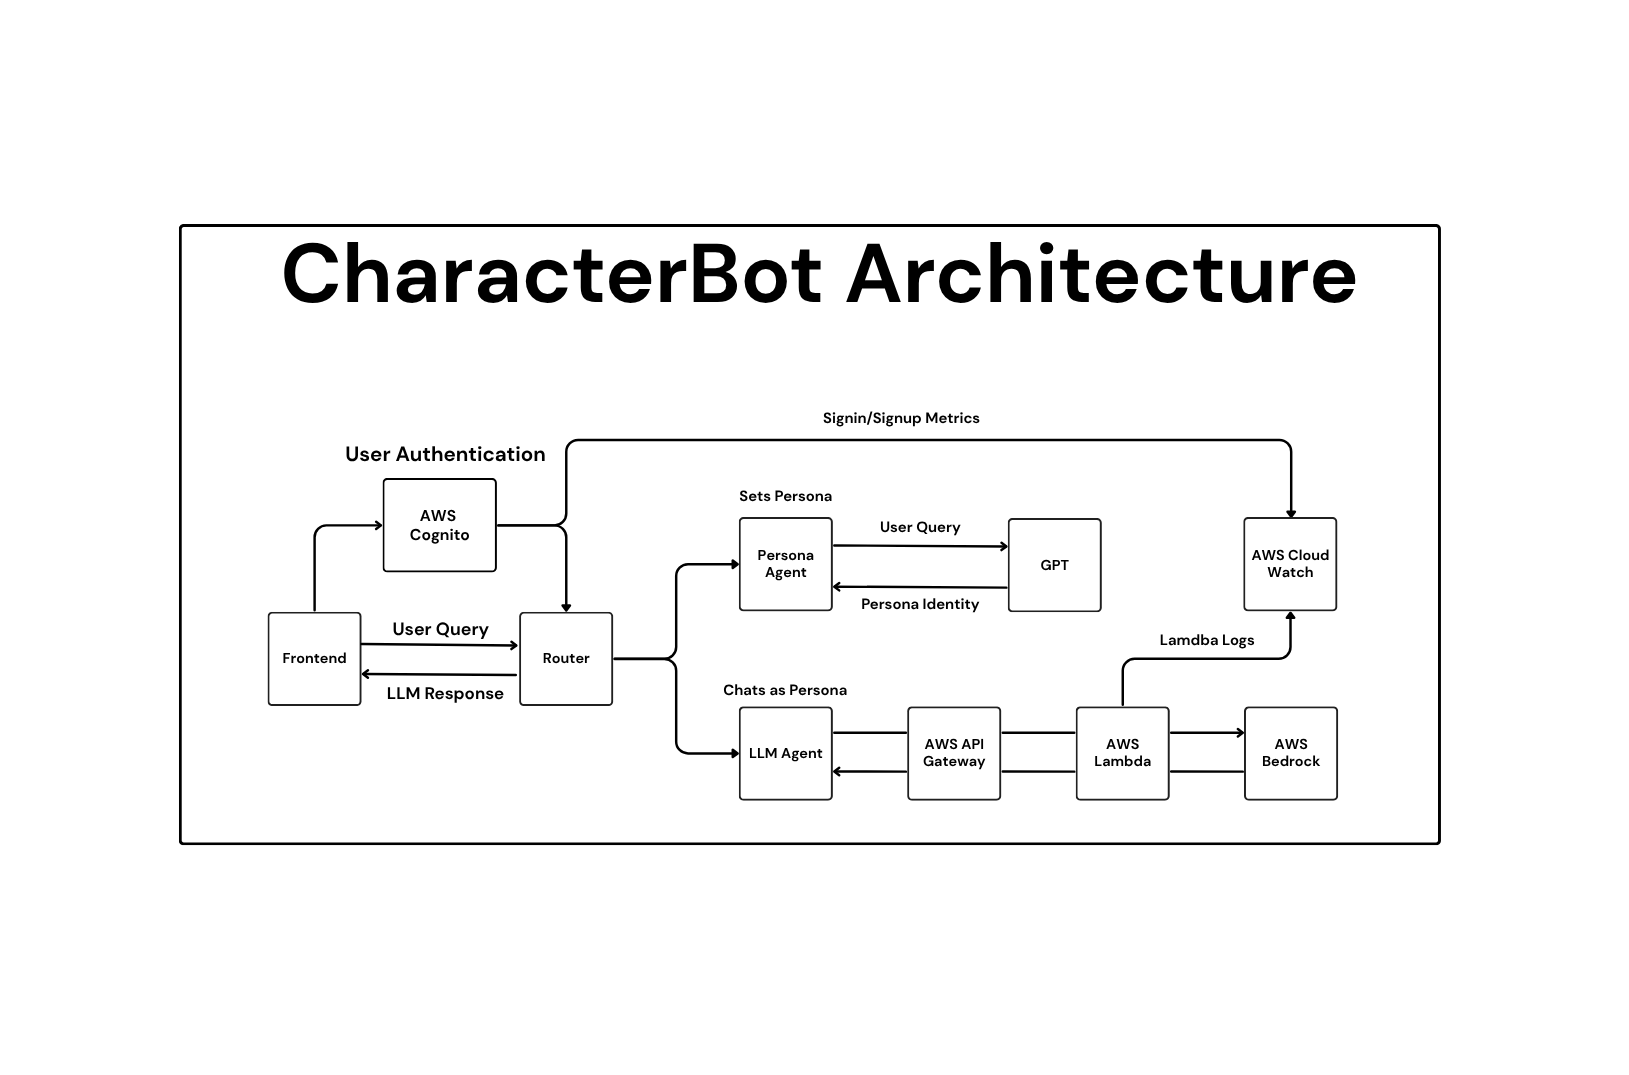
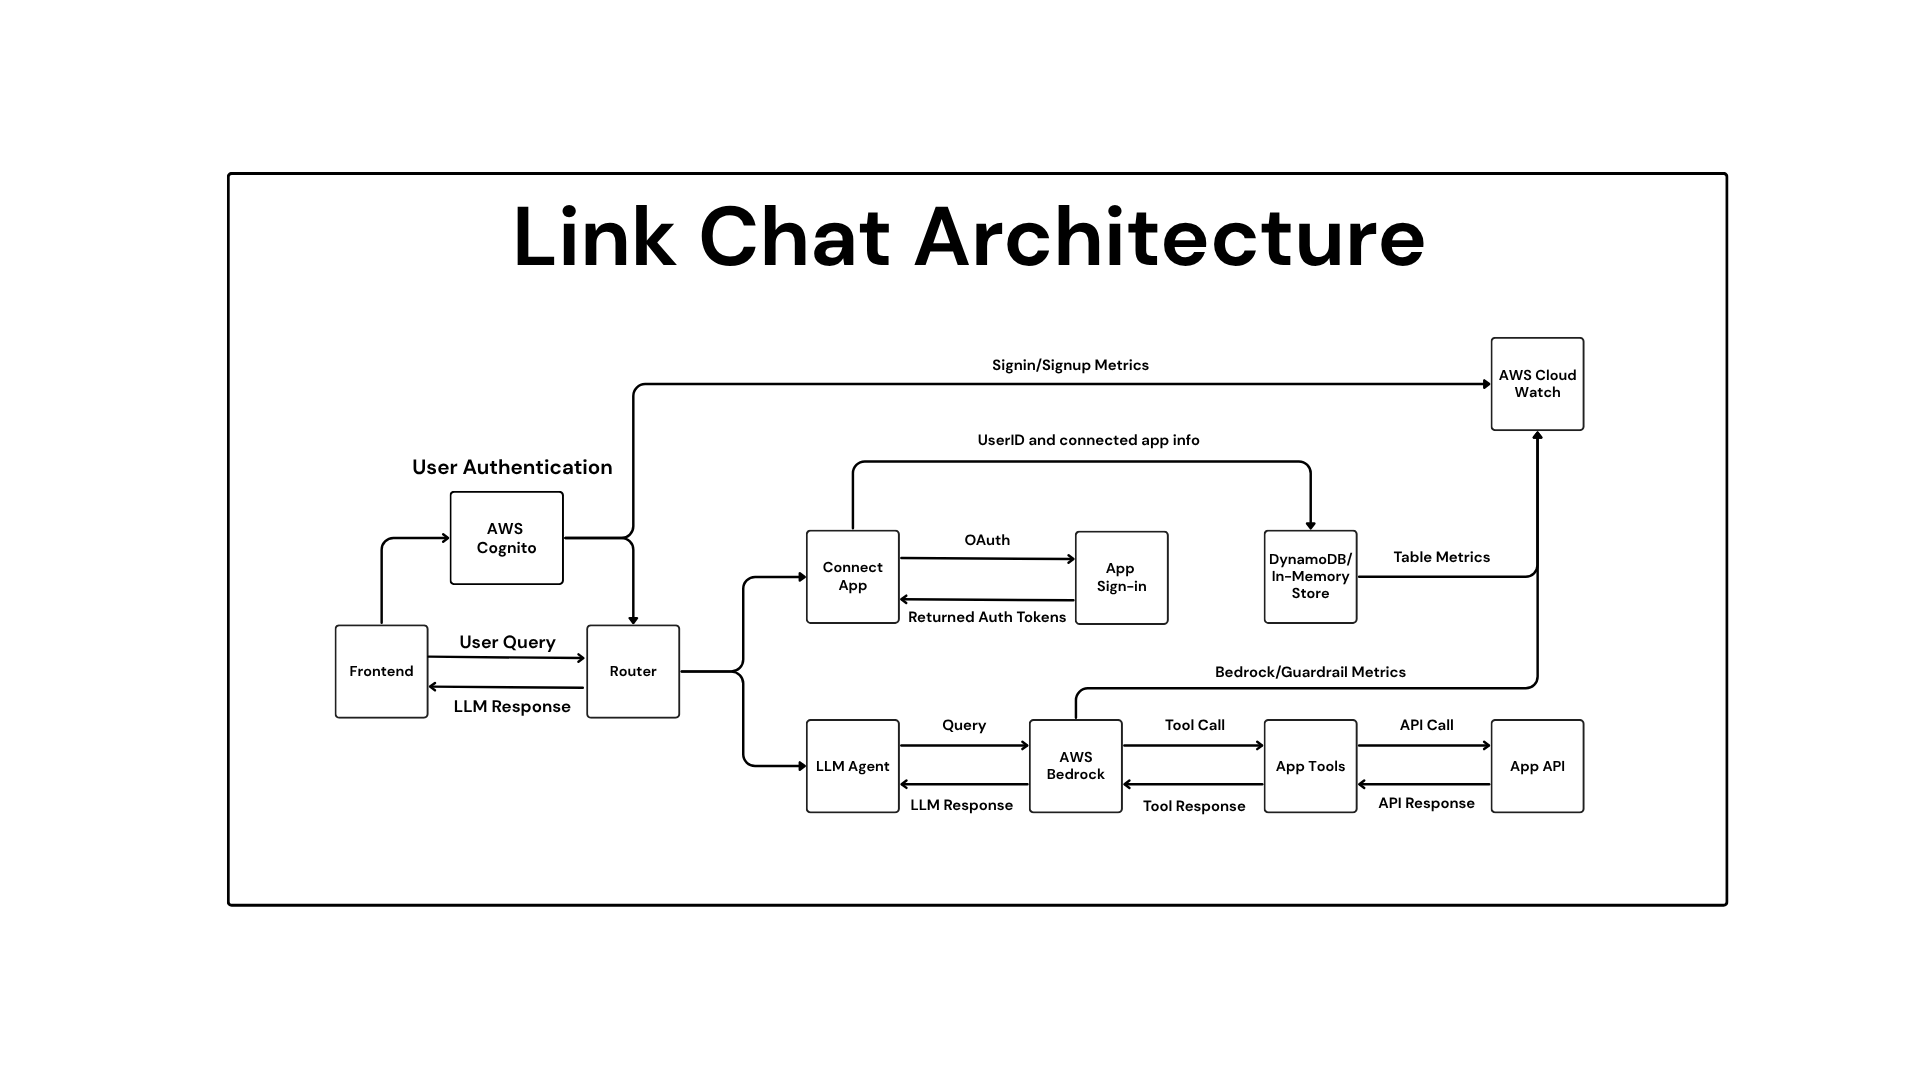
update documentation

diff --git a/README.md b/README.md
@@ -3,7 +3,7 @@
 ## Architecture Documentation
 
 ### Overview
-This system is a chatbot that a user can user to interact with a famous character of their choice or make up a persona to talk with. It uses OpenAI's gpt-4o-mini model with structured outputs to create the persona and leverages Amazon's proprietary chat model through Bedrock for the chat interaction.
+This system is a chatbot that a user can connect external applications to and use as a personal assistant. It uses Claude's 3.5 haiku model and leverages AWS Bedrock for the chat interaction and tool calling functionality.
 
 ### Architecture Diagram
 
@@ -11,11 +11,10 @@ This system is a chatbot that a user can user to interact with a famous characte
 
 ### Flow
 1. A user can either sign-in or create an account which is authenticated through AWS Cognito
-2. A user is prompted to select any persona of their choosing
-3. Their response is sent through the router to the Persona Agent to GPT to extract the persona and a description (through OpenAI's structured output feature) to be supplied to Bedrock
-4. The user can begin chatting with the new persona
-5. From then on, the user can interact with the chatbot as normal. All requests will be routed through API Gateway to the lambda that calls bedrock
-6. Logs are sent to CloudWatch from AWS Cognito and AWS Lambda for security and performance monitoring 
+2. A user can either connect an application or begin chatting
+3. If a user selects to connect apps, they will be sent to that app's respective authentication page before being redirected back to the site
+5. From then on, the user can interact with the chatbot as normal. If a user decides to request an action from the chatbot that would require the use of that external application, link will handle that for the user
+6. Logs are sent to CloudWatch from AWS Cognito and AWS Bedrock and DynamoDB for security and performance monitoring 
 
 ### Components
 
@@ -24,25 +23,26 @@ This system is a chatbot that a user can user to interact with a famous characte
 
 2. Backend:
     - Amazon Cognito is used as the base for the authentication service
-    - A router is used to either send a prompt to the persona agent or to bedrock
-    - API Gateway to interact with the lambda
-    - AWS lambda to send requests to Bedrock
-    - AWS Bedrock for the chat interactions
+    - A router is used to connect to applications or chat with bedrock
+    - AWS Bedrock/Anthropic's claude for the chat interactions
+    - AWS DynamoDB to store apps the user has connected to
+    - In-memory store for local caching of necessary information for faster processing
     - AWS Cloudwatch for monitoring and logging
-    - OpenAI for persona determination
 
 ### Requirements
 
 1. Backend
 ```python
-openai==1.86.0
 python-dotenv==1.1.0
 requests==2.32.4
 flask==3.1.1
 flask-cors==6.0.1
+flask-limiter==3.11.0
 pytest==8.4.0
 pytest-cov==6.1.1
 pydantic==2.11.5
+pandas==2.3.0
+boto3==1.38.41
 ```
 
 2. Frontend
@@ -50,27 +50,22 @@ pydantic==2.11.5
 
 ### Model Configuration
 
-1. OpenAI
-    - Model: gpt-4o-mini
-    - Method: beta.chat.completions.parse()
-    - Schema enforcement: Via structured outputs
-
 2. Bedrock
-    - Model: amazon.nova-micro-v1:0
-    - Method: bedrock.invoke_model()
-    - Schema enforcement: None
+    - Model: anthropic.claude-3-haiku-20240307-v1:0
+    - Method: client.converse()
+    - Schema enforcement: Tool dependent
 
 ## User Guide
 
 ### What It Does
-This chatbot allows you to interact with any persona of your choosing. From historical figures to superheros, Link is a fun and new way to interact with your favorite characters.
+This chatbot allows you to interact with a chatbot and use it as a personal assistant which can connect with external applications and perform actions.
 
 ### How to install
 
 1. Clone this repository 
 ```bash
-git clone https://github.com/notthattal/AwsGenAIImplementation.git
-cd AwsGenAIImplementation
+git clone https://github.com/notthattal/Link.git
+cd Link
 ```
 
 2. Create and activate a virtual environment
@@ -109,8 +104,9 @@ pytest --cov=.
 
 1. Create an account or sign-in
 2. Verify your account (if first time signing in)
-3. Tell CharacterBot which persona you would like to speak to
-4. Chat like you would with any other chatbot! It's that easy!
+3. Select the gear in the top right and go to the ConnectApps page to select which apps you would like to use
+4. Authenticate with the app you would like to use
+5. Navigate back to the homepage and start chatting!
 
 ## Security Documentation
 
@@ -128,9 +124,7 @@ pytest --cov=.
 ### Authentication and Authorization
 
 - AWS Cognito handles all user authentication flows.
-- API Gateway is configured with a Cognito Authorizer to verify JWT tokens for each request.
 - Only verified users are allowed to invoke protected endpoints.
-- Lambda functions extract the validated `sub` claim securely from the token via API Gateway's request context.
 
 ### Rate Limiting
 
@@ -139,22 +133,8 @@ pytest --cov=.
 
 ### Data Handling and Privacy
 
-- No user PII (e.g., emails, names) is logged or stored.
 - User identity is tracked internally using the Cognito `sub` UUID only.
-- Prompt contents are optionally hashed or archived securely in S3.
 - All environment variables and credentials are scoped per environment and never exposed publicly.
-
-### Audit Logging
-
-- Each API invocation is logged to CloudWatch with:
-  - Timestamp
-  - Cognito user `sub`
-  - Request ID
-  - Prompt text
-  - Model response
-- Logs are structured with a consistent `AUDIT_LOG` prefix for easy traceability.
-- Request IDs can be correlated with CloudTrail events to determine full invocation context and user action.
-- Logs are stored in immutable AWS-managed infrastructure and monitored for unusual patterns.
 
 ### Safety Filters and Monitoring
 

diff --git a/documentation/architecture_documentation.md b/documentation/architecture_documentation.md
@@ -1,19 +1,18 @@
-## Architecture Documentation: CharacterBot
+## Architecture Documentation
 
 ### Overview
-This system is a chatbot that a user can user to interact with a famous character of their choice or make up a persona to talk with. It uses OpenAI's gpt-4o-mini model with structured outputs to create the persona and leverages Amazon's proprietary chat model through Bedrock for the chat interaction.
+This system is a chatbot that a user can connect external applications to and use as a personal assistant. It uses Claude's 3.5 haiku model and leverages AWS Bedrock for the chat interaction and tool calling functionality.
 
 ### Architecture Diagram
 
-![Architecture Diagram](../img/architecture_diagram.png)
+![Architecture Diagram](./img/architecture_diagram.png)
 
 ### Flow
 1. A user can either sign-in or create an account which is authenticated through AWS Cognito
-2. A user is prompted to select any persona of their choosing
-3. Their response is sent through the router to the Persona Agent to GPT to extract the persona and a description (through OpenAI's structured output feature) to be supplied to Bedrock
-4. The user can begin chatting with the new persona
-5. From then on, the user can interact with the chatbot as normal. All requests will be routed through API Gateway to the lambda that calls bedrock
-6. Logs are sent to CloudWatch from AWS Cognito and AWS Lambda for security and performance monitoring 
+2. A user can either connect an application or begin chatting
+3. If a user selects to connect apps, they will be sent to that app's respective authentication page before being redirected back to the site
+5. From then on, the user can interact with the chatbot as normal. If a user decides to request an action from the chatbot that would require the use of that external application, link will handle that for the user
+6. Logs are sent to CloudWatch from AWS Cognito and AWS Bedrock and DynamoDB for security and performance monitoring 
 
 ### Components
 
@@ -22,25 +21,26 @@ This system is a chatbot that a user can user to interact with a famous characte
 
 2. Backend:
     - Amazon Cognito is used as the base for the authentication service
-    - A router is used to either send a prompt to the persona agent or to bedrock
-    - API Gateway to interact with the lambda
-    - AWS lambda to send requests to Bedrock
-    - AWS Bedrock for the chat interactions
+    - A router is used to connect to applications or chat with bedrock
+    - AWS Bedrock/Anthropic's claude for the chat interactions
+    - AWS DynamoDB to store apps the user has connected to
+    - In-memory store for local caching of necessary information for faster processing
     - AWS Cloudwatch for monitoring and logging
-    - OpenAI for persona determination
 
 ### Requirements
 
 1. Backend
 ```python
-openai==1.86.0
 python-dotenv==1.1.0
 requests==2.32.4
 flask==3.1.1
 flask-cors==6.0.1
+flask-limiter==3.11.0
 pytest==8.4.0
 pytest-cov==6.1.1
 pydantic==2.11.5
+pandas==2.3.0
+boto3==1.38.41
 ```
 
 2. Frontend
@@ -48,12 +48,7 @@ pydantic==2.11.5
 
 ### Model Configuration
 
-1. OpenAI
-    - Model: gpt-4o-mini
-    - Method: beta.chat.completions.parse()
-    - Schema enforcement: Via structured outputs
-
 2. Bedrock
-    - Model: amazon.nova-micro-v1:0
-    - Method: bedrock.invoke_model()
-    - Schema enforcement: None
+    - Model: anthropic.claude-3-haiku-20240307-v1:0
+    - Method: client.converse()
+    - Schema enforcement: Tool dependent

diff --git a/documentation/security_documentation.md b/documentation/security_documentation.md
@@ -14,9 +14,7 @@
 ### Authentication and Authorization
 
 - AWS Cognito handles all user authentication flows.
-- API Gateway is configured with a Cognito Authorizer to verify JWT tokens for each request.
 - Only verified users are allowed to invoke protected endpoints.
-- Lambda functions extract the validated `sub` claim securely from the token via API Gateway's request context.
 
 ### Rate Limiting
 
@@ -25,22 +23,8 @@
 
 ### Data Handling and Privacy
 
-- No user PII (e.g., emails, names) is logged or stored.
 - User identity is tracked internally using the Cognito `sub` UUID only.
-- Prompt contents are optionally hashed or archived securely in S3.
 - All environment variables and credentials are scoped per environment and never exposed publicly.
-
-### Audit Logging
-
-- Each API invocation is logged to CloudWatch with:
-  - Timestamp
-  - Cognito user `sub`
-  - Request ID
-  - Prompt text
-  - Model response
-- Logs are structured with a consistent `AUDIT_LOG` prefix for easy traceability.
-- Request IDs can be correlated with CloudTrail events to determine full invocation context and user action.
-- Logs are stored in immutable AWS-managed infrastructure and monitored for unusual patterns.
 
 ### Safety Filters and Monitoring
 

diff --git a/documentation/user_guide.md b/documentation/user_guide.md
@@ -1,14 +1,14 @@
 ## User Guide
 
 ### What It Does
-This chatbot allows you to interact with any persona of your choosing. From historical figures to superheros, CharacterBot is a fun and new way to interact with your favorite characters.
+This chatbot allows you to interact with a chatbot and use it as a personal assistant which can connect with external applications and perform actions.
 
 ### How to install
 
 1. Clone this repository 
 ```bash
-git clone https://github.com/notthattal/AwsGenAIImplementation.git
-cd AwsGenAIImplementation
+git clone https://github.com/notthattal/Link.git
+cd Link
 ```
 
 2. Create and activate a virtual environment
@@ -43,9 +43,10 @@ python server.py
 pytest --cov=.
 ```
 
-### How to interact with CharacterBot
+### How to use
 
 1. Create an account or sign-in
 2. Verify your account (if first time signing in)
-3. Tell CharacterBot which persona you would like to speak to
-4. Chat like you would with any other chatbot! It's that easy!
+3. Select the gear in the top right and go to the ConnectApps page to select which apps you would like to use
+4. Authenticate with the app you would like to use
+5. Navigate back to the homepage and start chatting!
